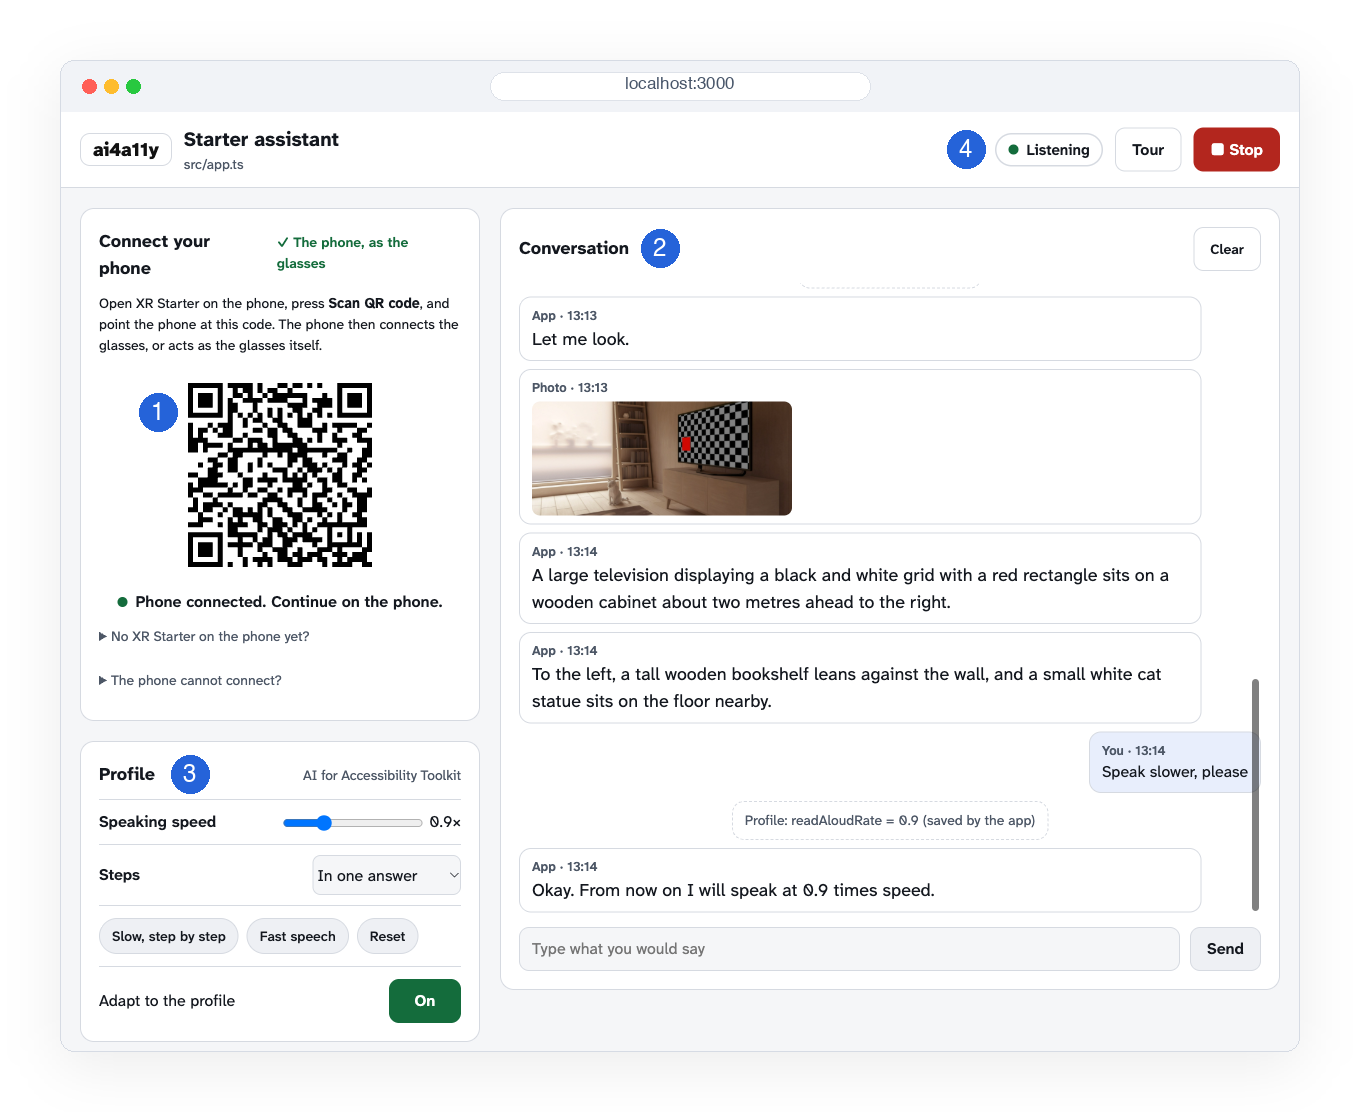
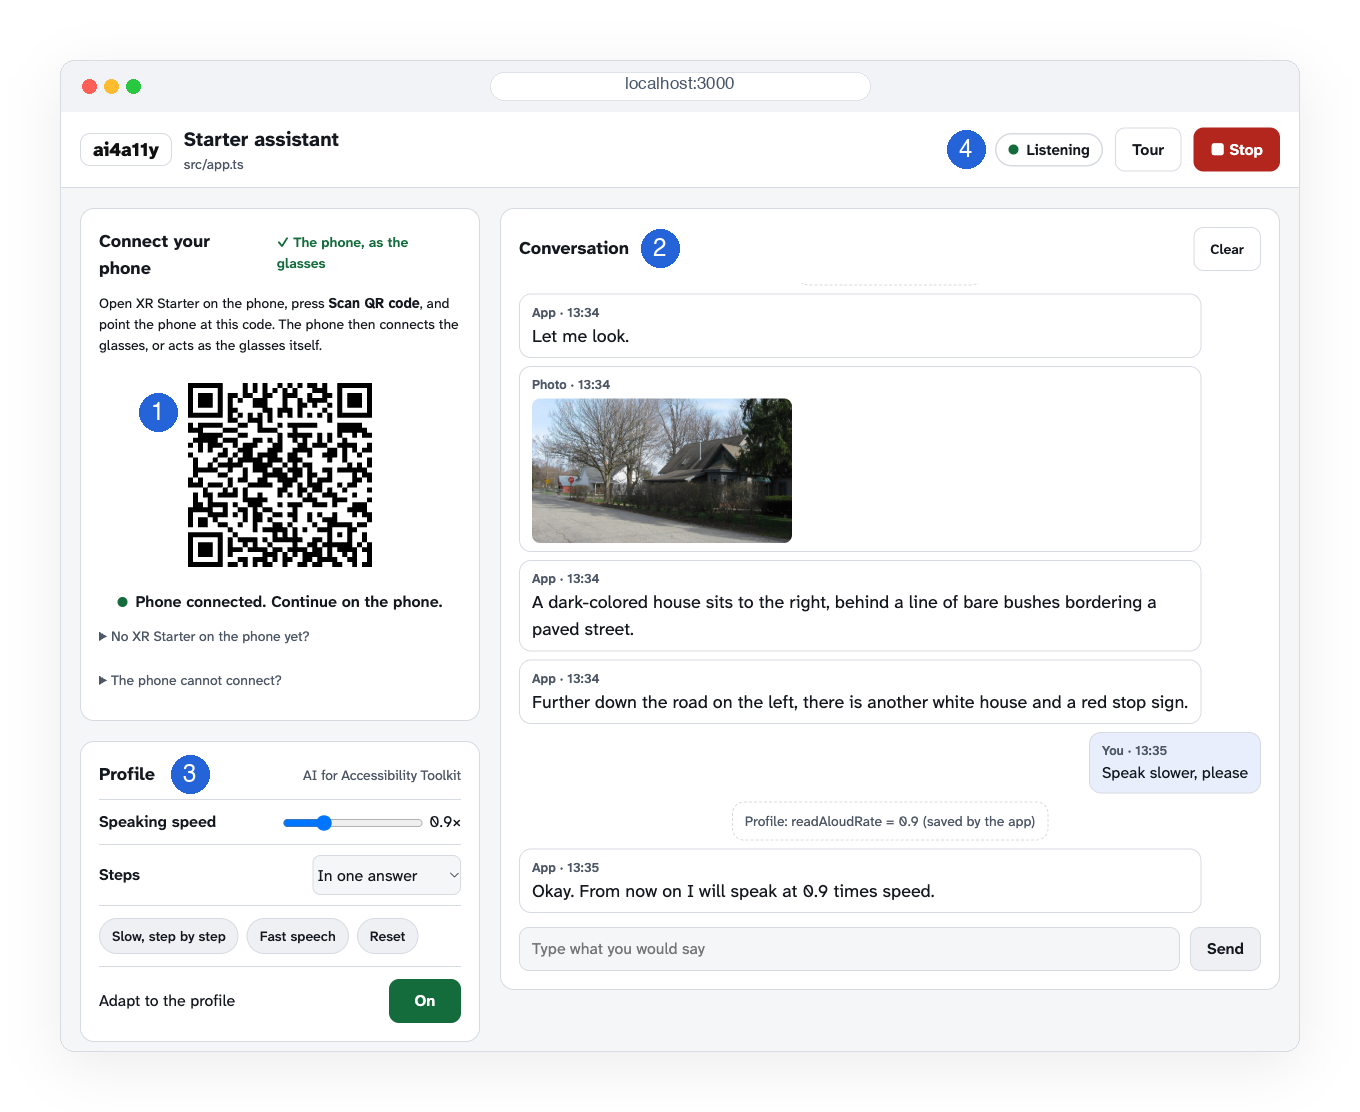
README: a street scene in the screenshots
The phone, the dashboard and the hero now show a residential street,
with the app's real description of it from Gemini.

Street photo: "Houses in New Augusta, Indianapolis" by Nyttend,
public domain, from Wikimedia Commons.

diff --git a/README.md b/README.md
@@ -11,7 +11,7 @@
 </p>
 
 <p align="center">
-  <img src="docs/images/hero.png" width="100%" alt="The XR Starter dashboard on a laptop, showing a photo of a living room and the app's spoken description of it. Beside it, a phone held sideways acts as the glasses, with its camera view, captions and a round glasses button.">
+  <img src="docs/images/hero.png" width="100%" alt="The XR Starter dashboard on a laptop, showing a photo of a residential street and the app's spoken description of it. Beside it, a phone held sideways acts as the glasses, with the same street in its camera view, a caption of the description, and a round glasses button.">
 </p>
 
 The starter handles the glasses, speech, photos and Gemini for you. The
@@ -68,7 +68,7 @@ on the phone and allow the install.
   <tr>
     <td align="center" width="25%"><img src="docs/images/phone-connect.png" width="190" alt="XR Starter on a phone: Connect to your laptop, with a Scan QR code button."></td>
     <td align="center" width="25%"><img src="docs/images/phone-choose.png" width="190" alt="XR Starter on a phone: Choose the glasses, with Connect glasses and Use this phone."></td>
-    <td align="center" width="50%"><img src="docs/images/phone-as-glasses.png" width="400" alt="The phone held sideways as the glasses: the camera view of a room, a caption from the app, and a round glasses button."></td>
+    <td align="center" width="50%"><img src="docs/images/phone-as-glasses.png" width="400" alt="The phone held sideways as the glasses: a residential street in the camera view, the app's description as a caption, and a round glasses button."></td>
   </tr>
   <tr>
     <td align="center"><b>1.</b> Press <b>Scan QR code</b> and point the phone at the dashboard.</td>
